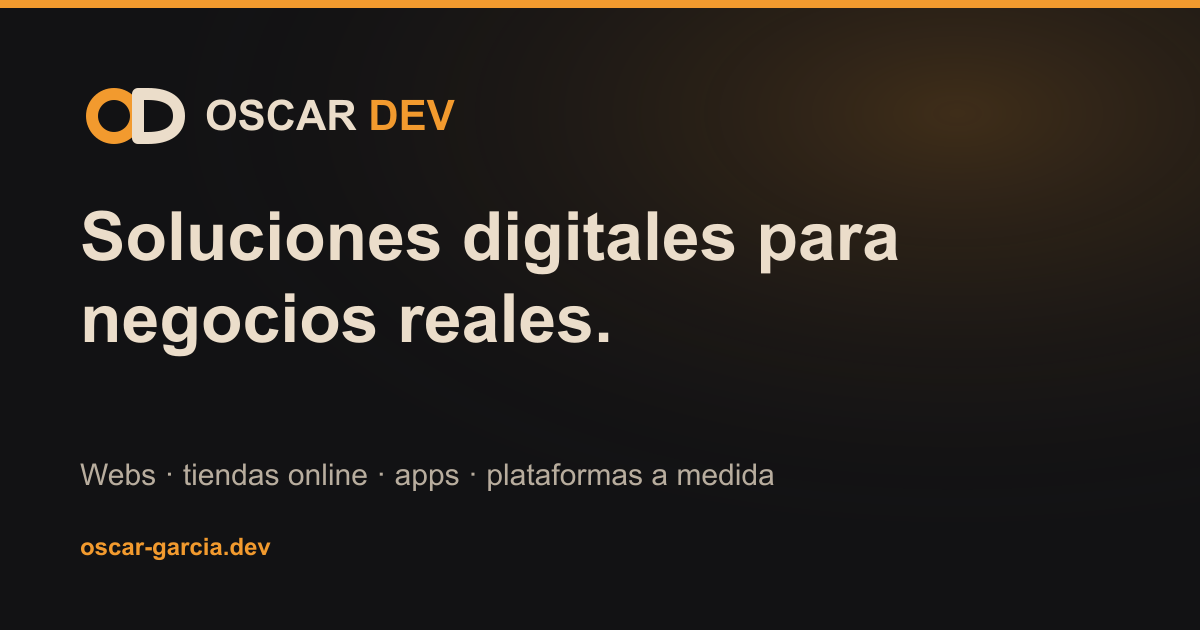
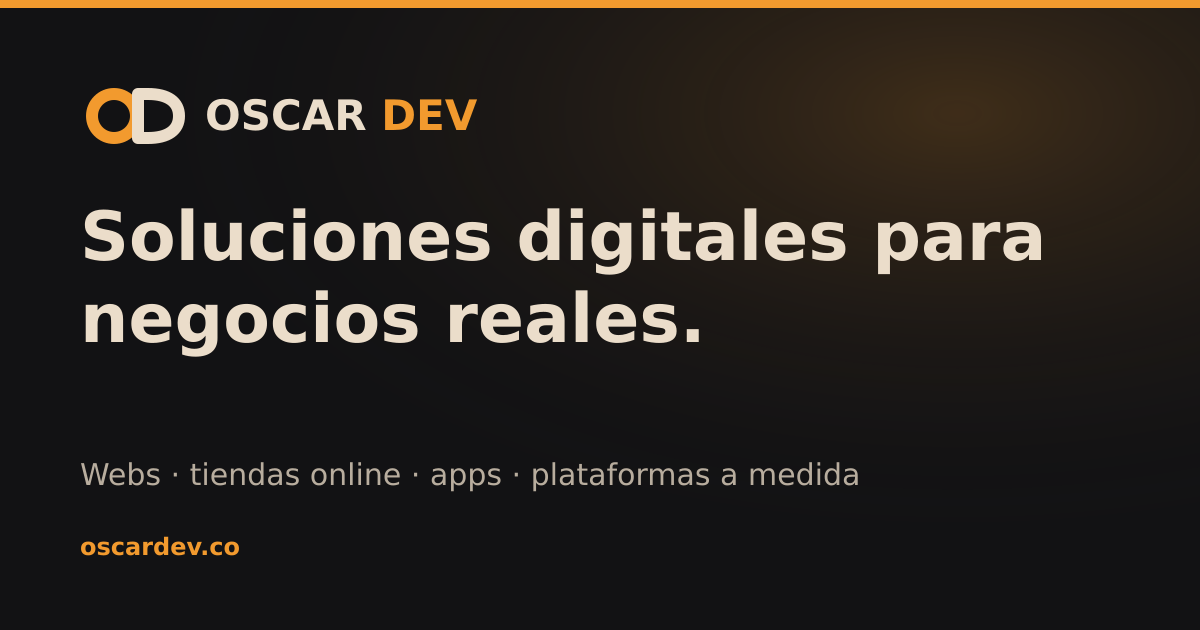
feat(seo): configure official domain oscardev.co and google search console readiness

diff --git a/src/config/site.ts b/src/config/site.ts
@@ -1,4 +1,4 @@
-export const siteUrl = 'https://oscar-garcia.dev';
+export const siteUrl = 'https://oscardev.co';
 
 export const whatsappShortLink = 'https://wa.me/message/YXFZES54VJ2IK1';
 
